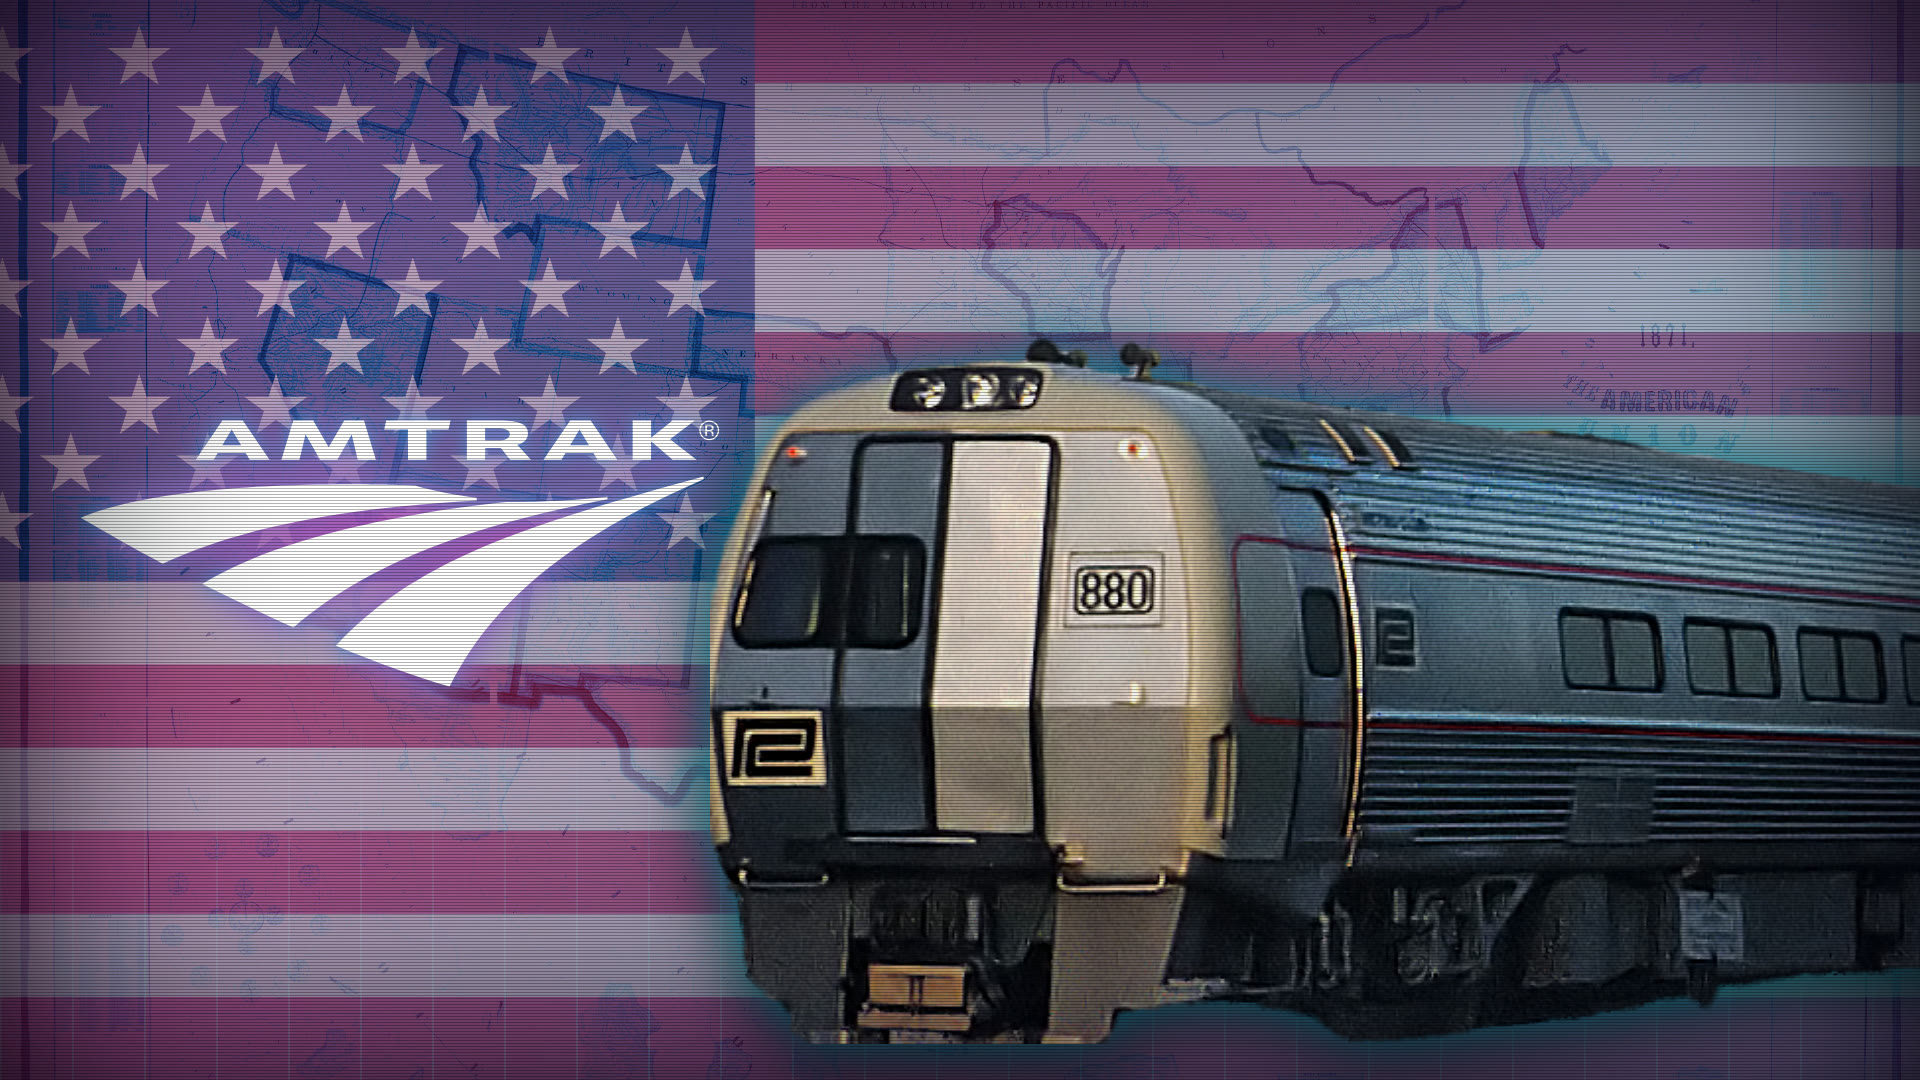
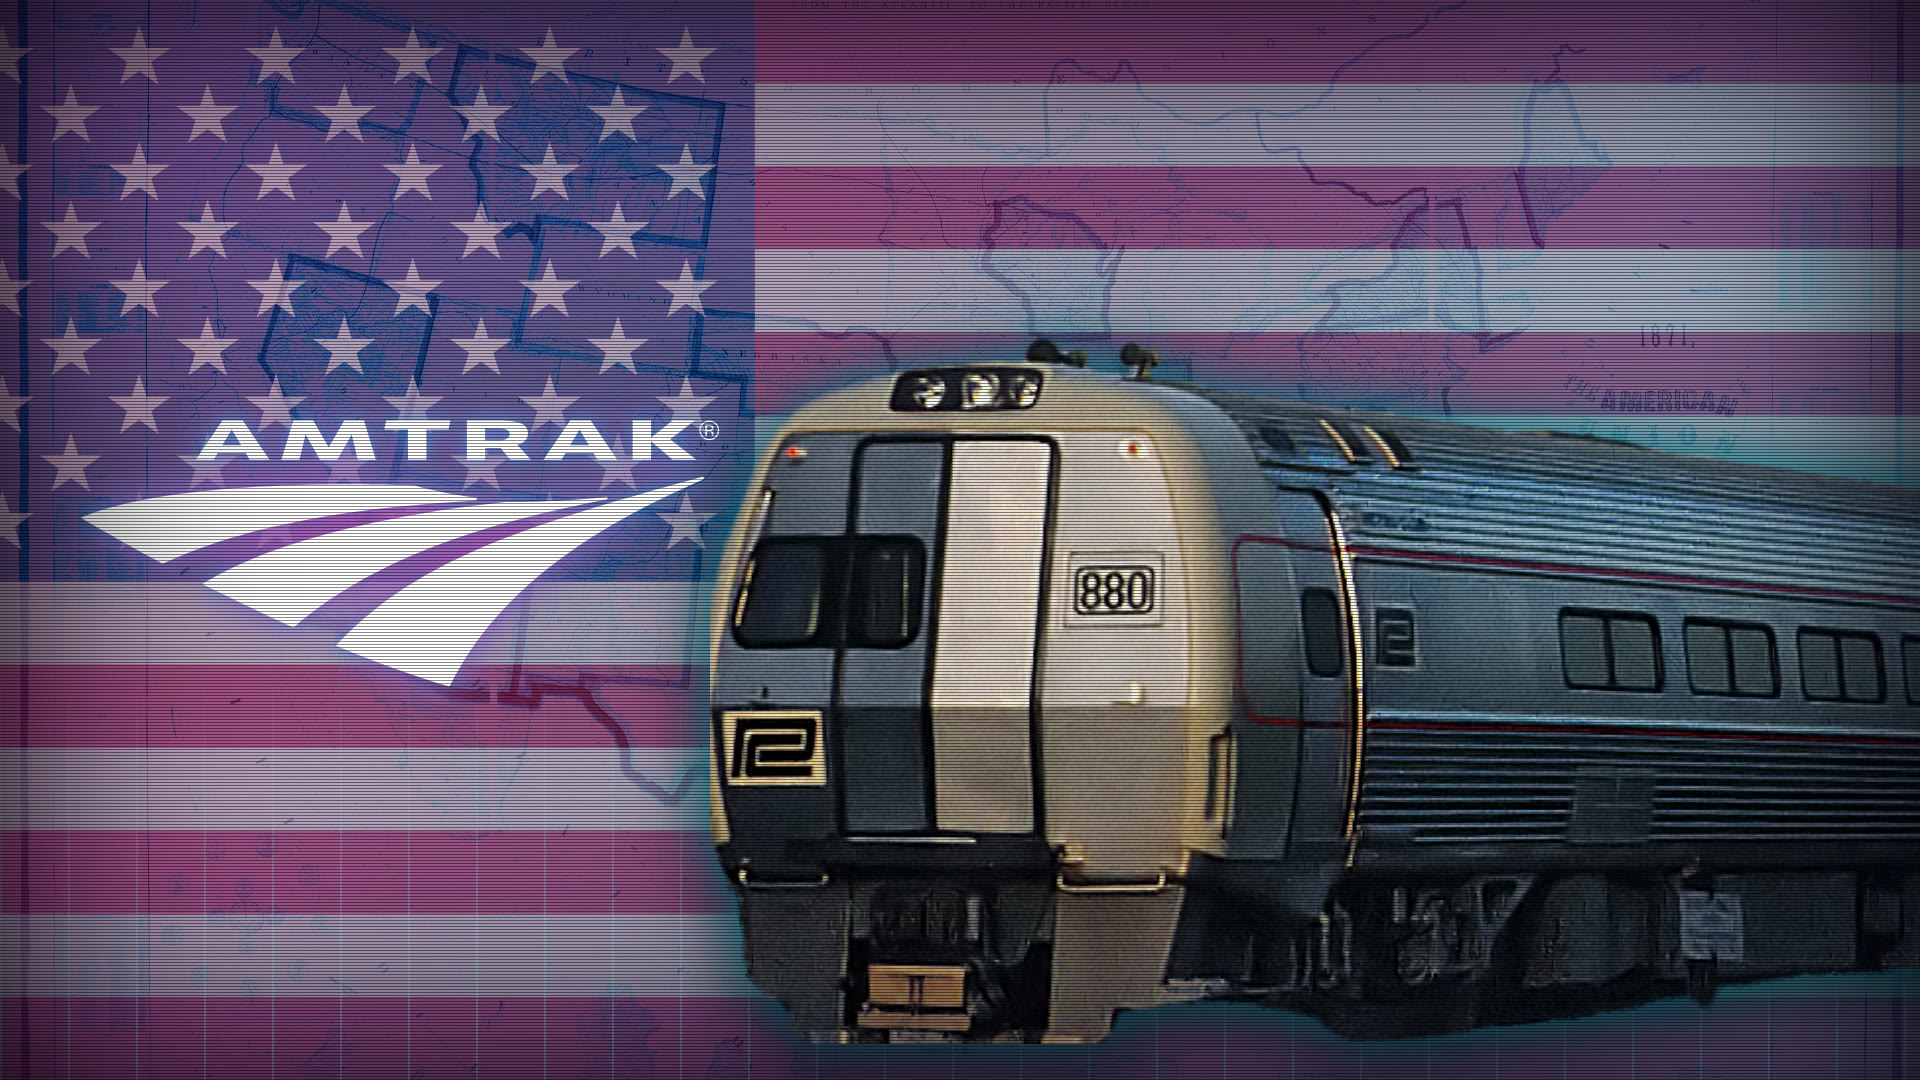
Thumbnail v5: stronger scanlines + grid
Claude-Session: https://claude.ai/code/session_01FT4gLFx4vRKh7zJaU16rKU

diff --git a/project/remotion/src/ThumbEv.tsx b/project/remotion/src/ThumbEv.tsx
@@ -18,7 +18,7 @@ export const ThumbEv: React.FC = () => {
       <AbsoluteFill style={{background: 'radial-gradient(130% 90% at 50% 55%, transparent 28%, rgba(120,0,190,0.7) 100%)', mixBlendMode: 'screen', opacity: 0.6}} />
 
       {/* bottom neon horizon grid */}
-      <AbsoluteFill style={{top: 'auto', bottom: 0, height: 380, backgroundImage: 'repeating-linear-gradient(90deg, rgba(0,235,255,0.7) 0px, rgba(0,235,255,0.7) 2px, transparent 2px, transparent 72px)', maskImage: 'linear-gradient(to top, black, transparent)', WebkitMaskImage: 'linear-gradient(to top, black, transparent)', mixBlendMode: 'screen', opacity: 0.34}} />
+      <AbsoluteFill style={{top: 'auto', bottom: 0, height: 420, backgroundImage: 'repeating-linear-gradient(90deg, rgba(0,240,255,0.85) 0px, rgba(0,240,255,0.85) 2px, transparent 2px, transparent 68px)', maskImage: 'linear-gradient(to top, black, transparent)', WebkitMaskImage: 'linear-gradient(to top, black, transparent)', mixBlendMode: 'screen', opacity: 0.5}} />
 
       {/* 4 — Metroliner entering from the right, fills the right side, tall */}
       <Img
@@ -33,7 +33,7 @@ export const ThumbEv: React.FC = () => {
       />
 
       {/* scanlines (strong) + vignette */}
-      <AbsoluteFill style={{backgroundImage: 'repeating-linear-gradient(0deg, rgba(0,0,0,0.42) 0px, rgba(0,0,0,0.42) 1px, transparent 1px, transparent 3px)', mixBlendMode: 'multiply', opacity: 0.7}} />
+      <AbsoluteFill style={{backgroundImage: 'repeating-linear-gradient(0deg, rgba(0,0,0,0.55) 0px, rgba(0,0,0,0.55) 1px, transparent 1px, transparent 3px)', mixBlendMode: 'multiply', opacity: 0.85}} />
       <AbsoluteFill style={{boxShadow: 'inset 0 0 420px rgba(3,0,10,0.98)'}} />
     </AbsoluteFill>
   );
